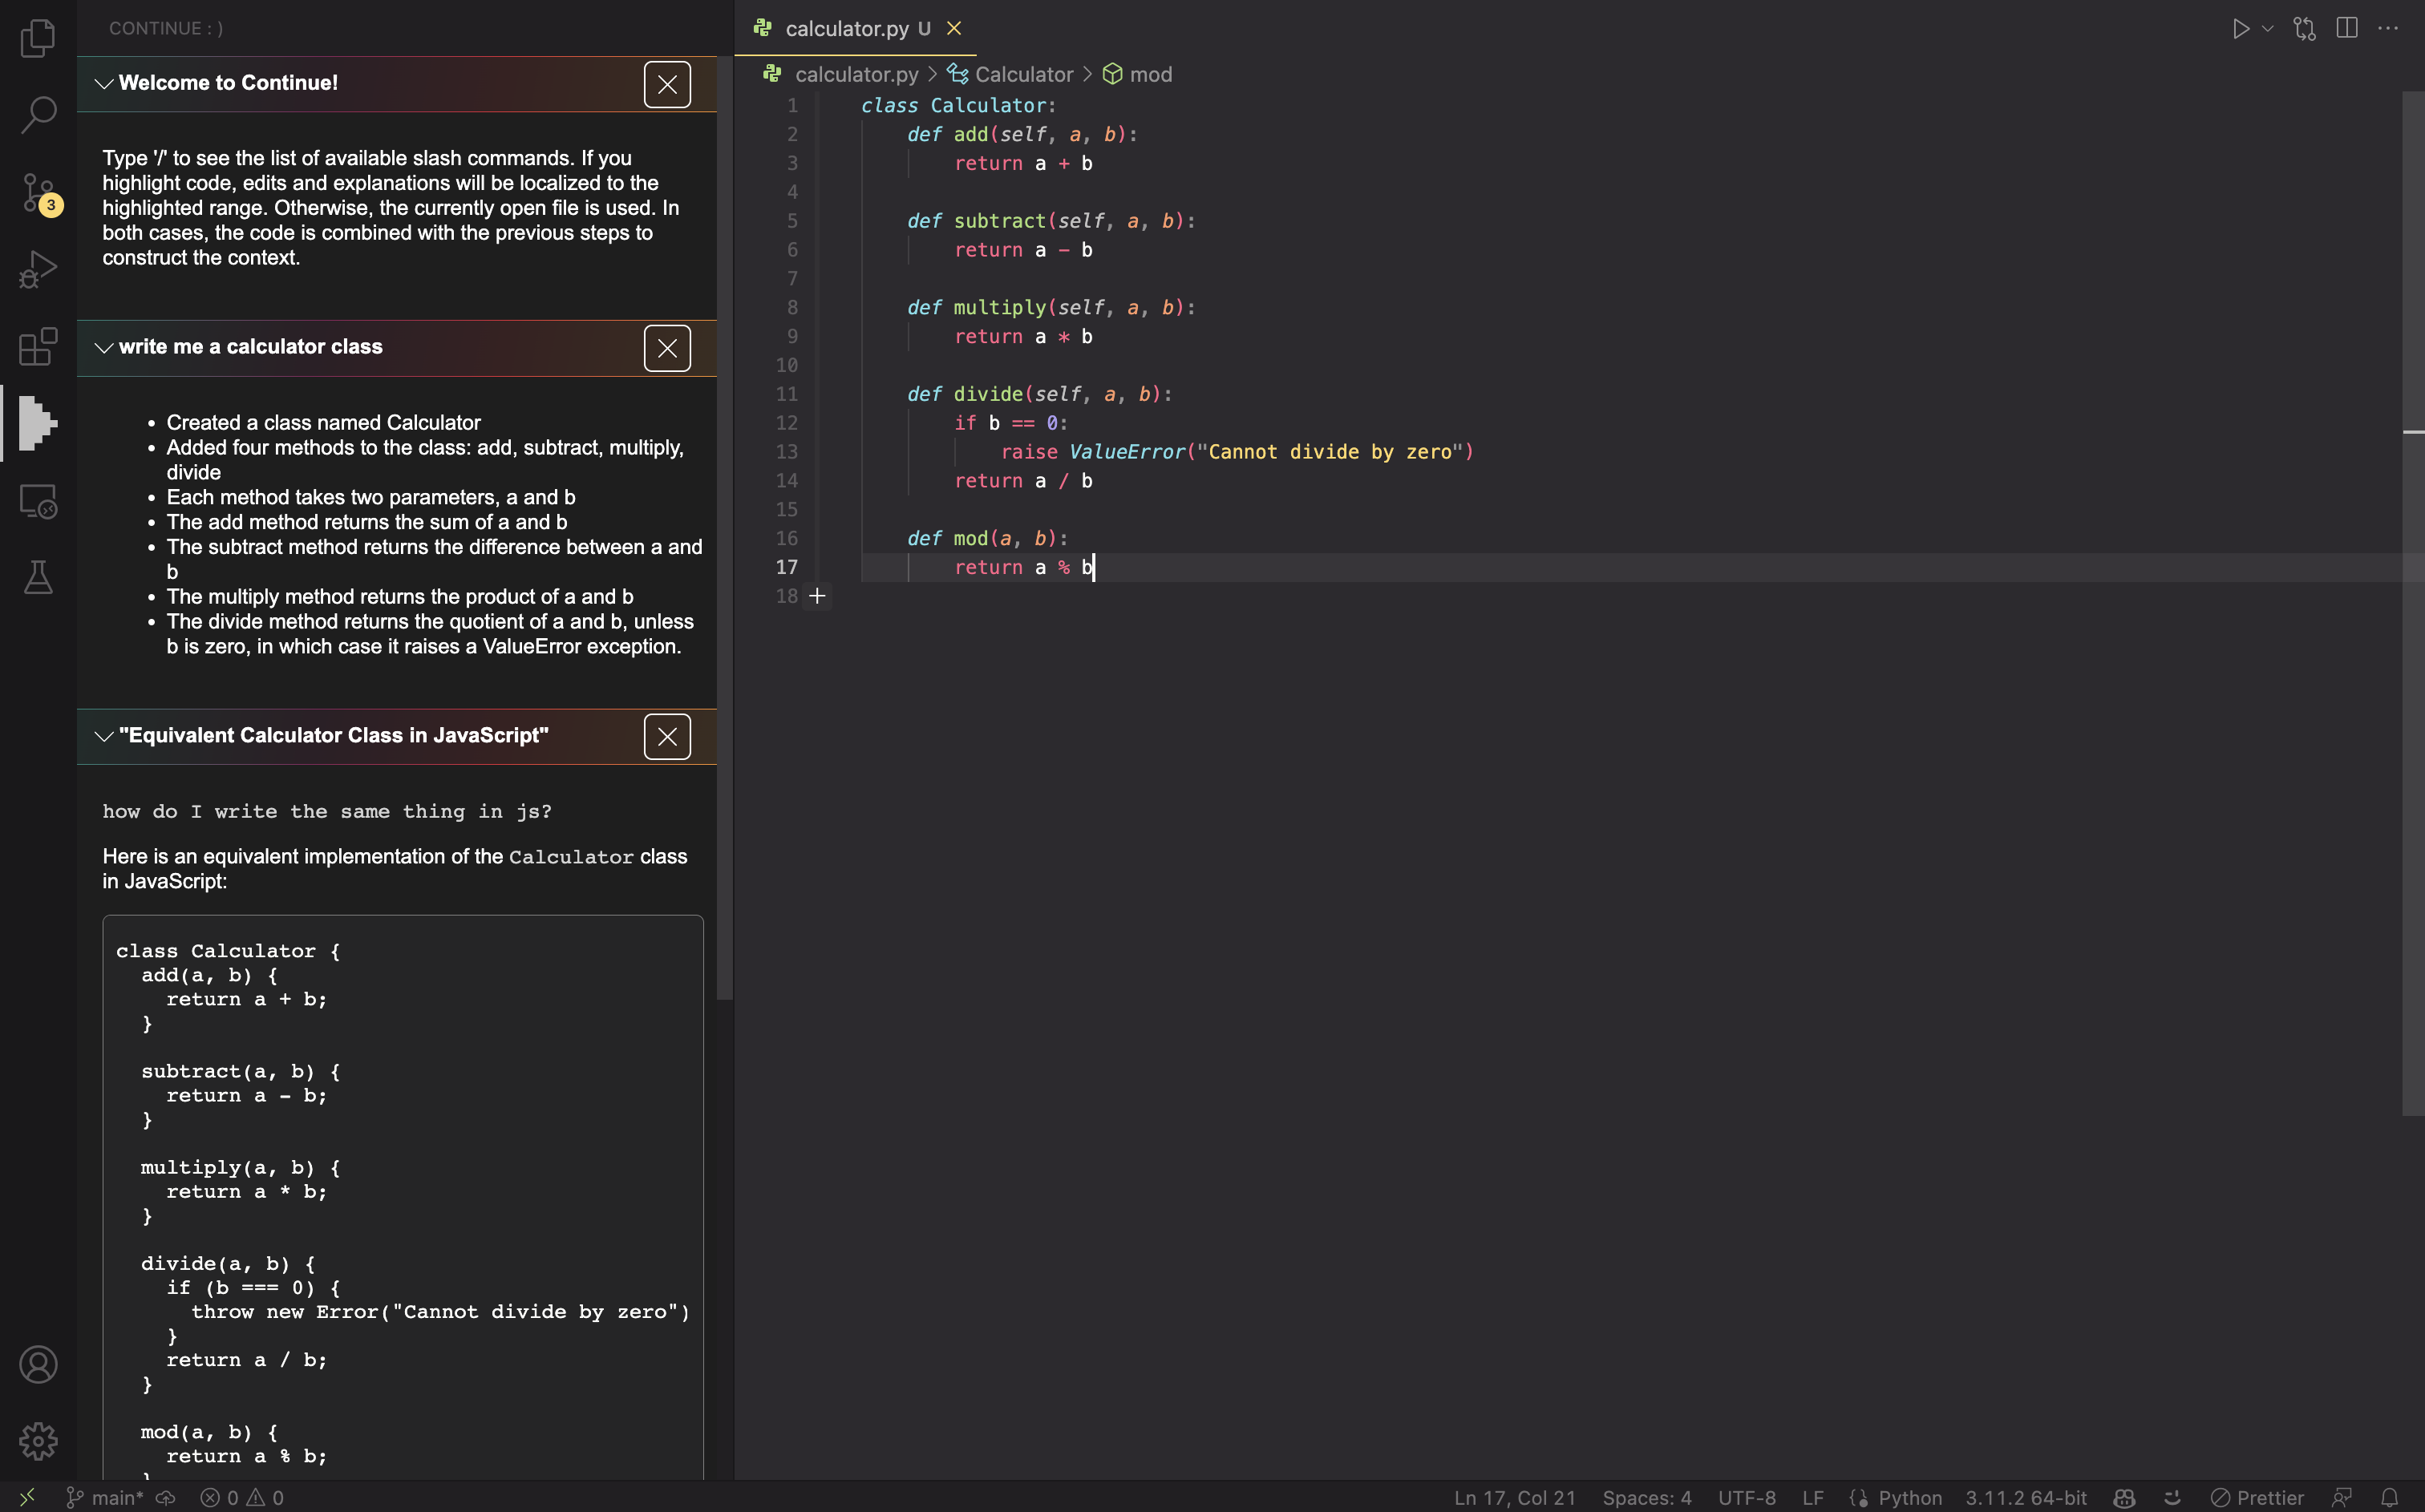
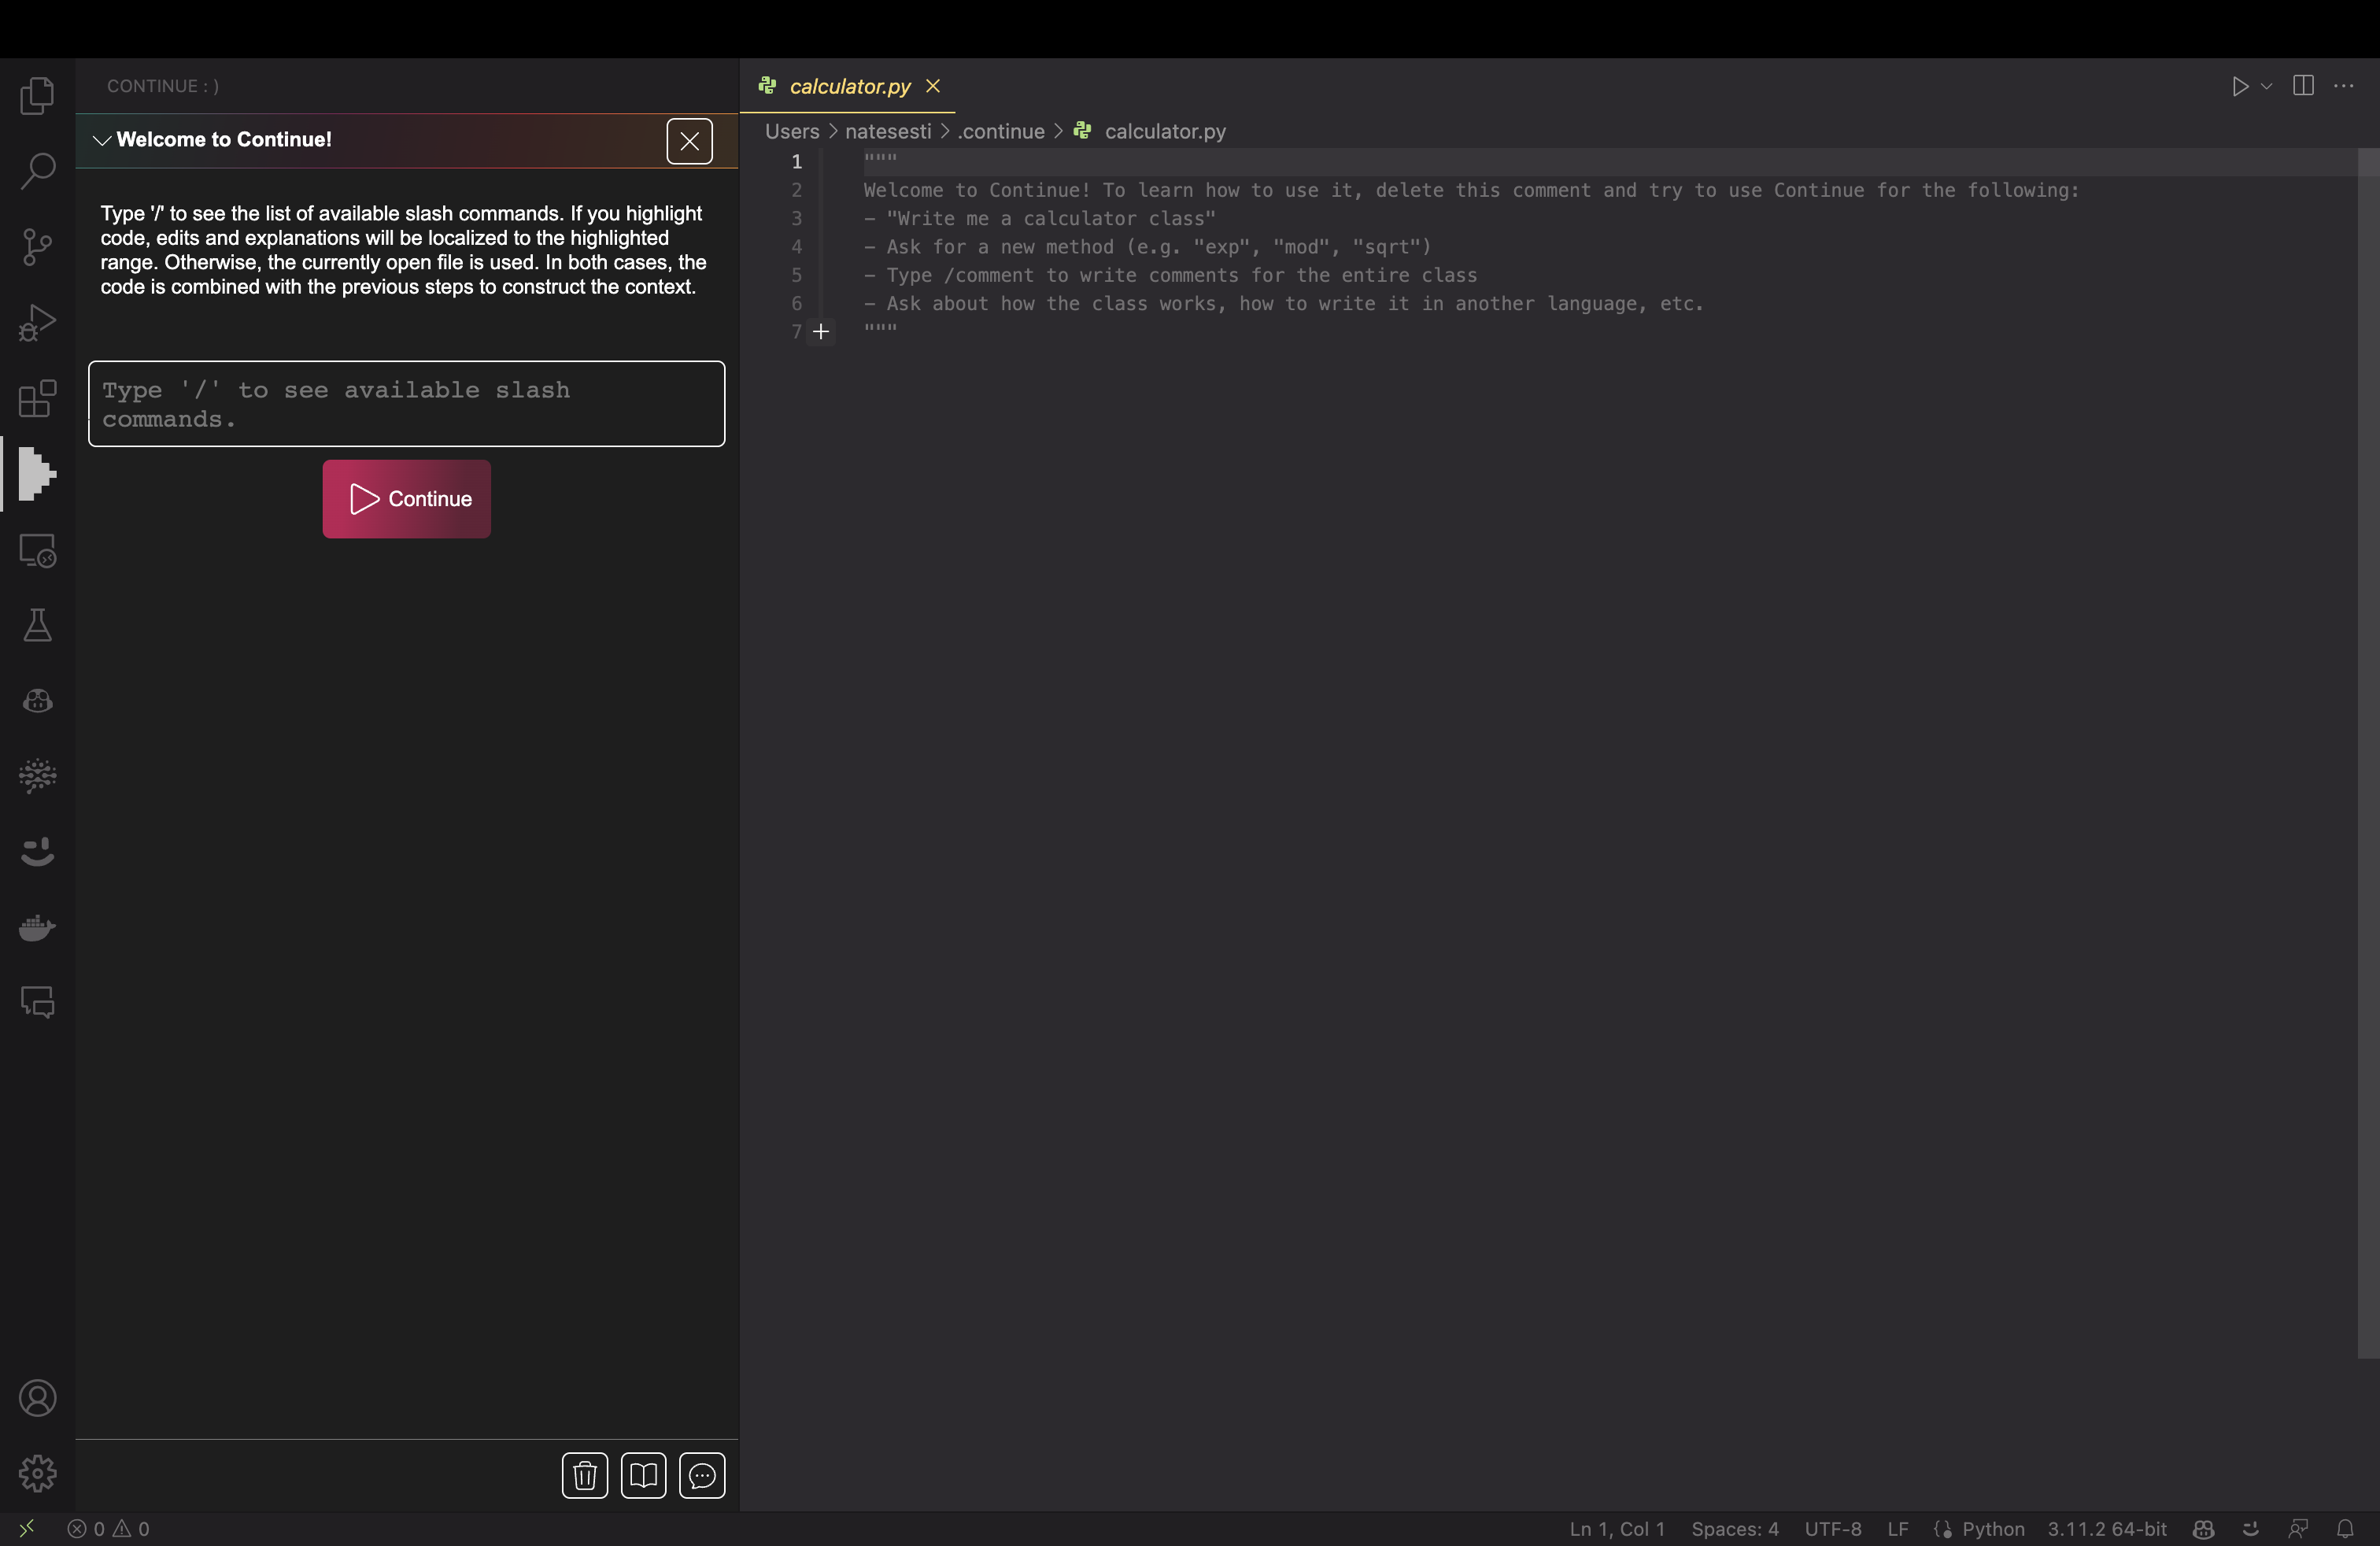
screenshots

diff --git a/continuedev/src/continuedev/steps/welcome.py b/continuedev/src/continuedev/steps/welcome.py
@@ -28,3 +28,5 @@ class WelcomeStep(Step):
             - Type /comment to write comments for the entire class
             - Ask about how the class works, how to write it in another language, etc.
             \"\"\"""")))
+
+        await sdk.ide.setFileOpen(filepath=filepath)